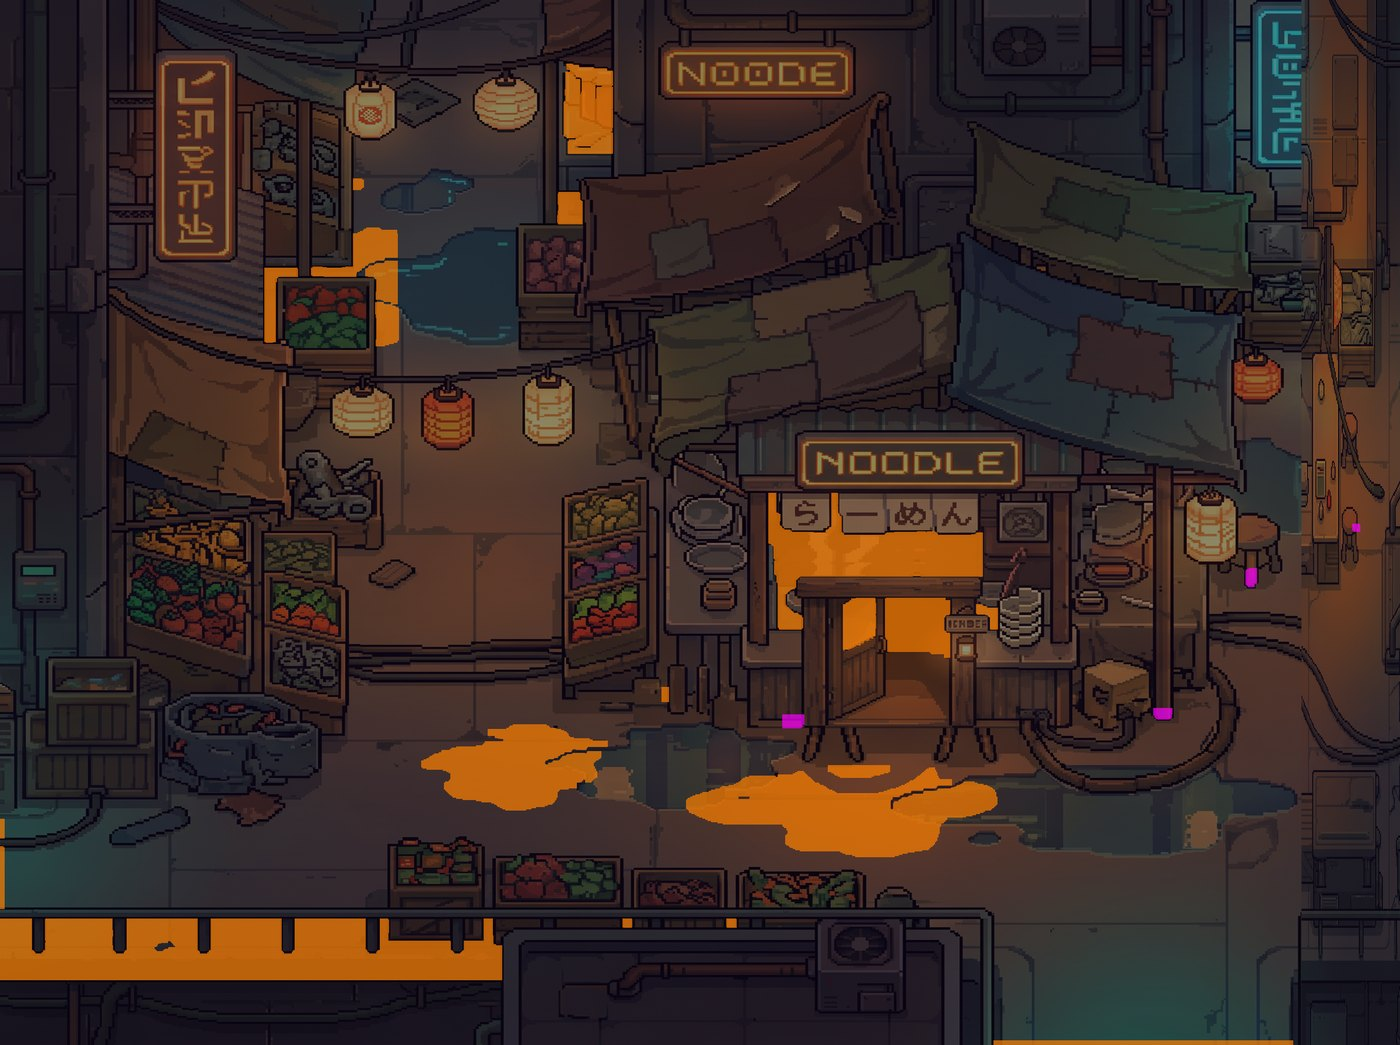
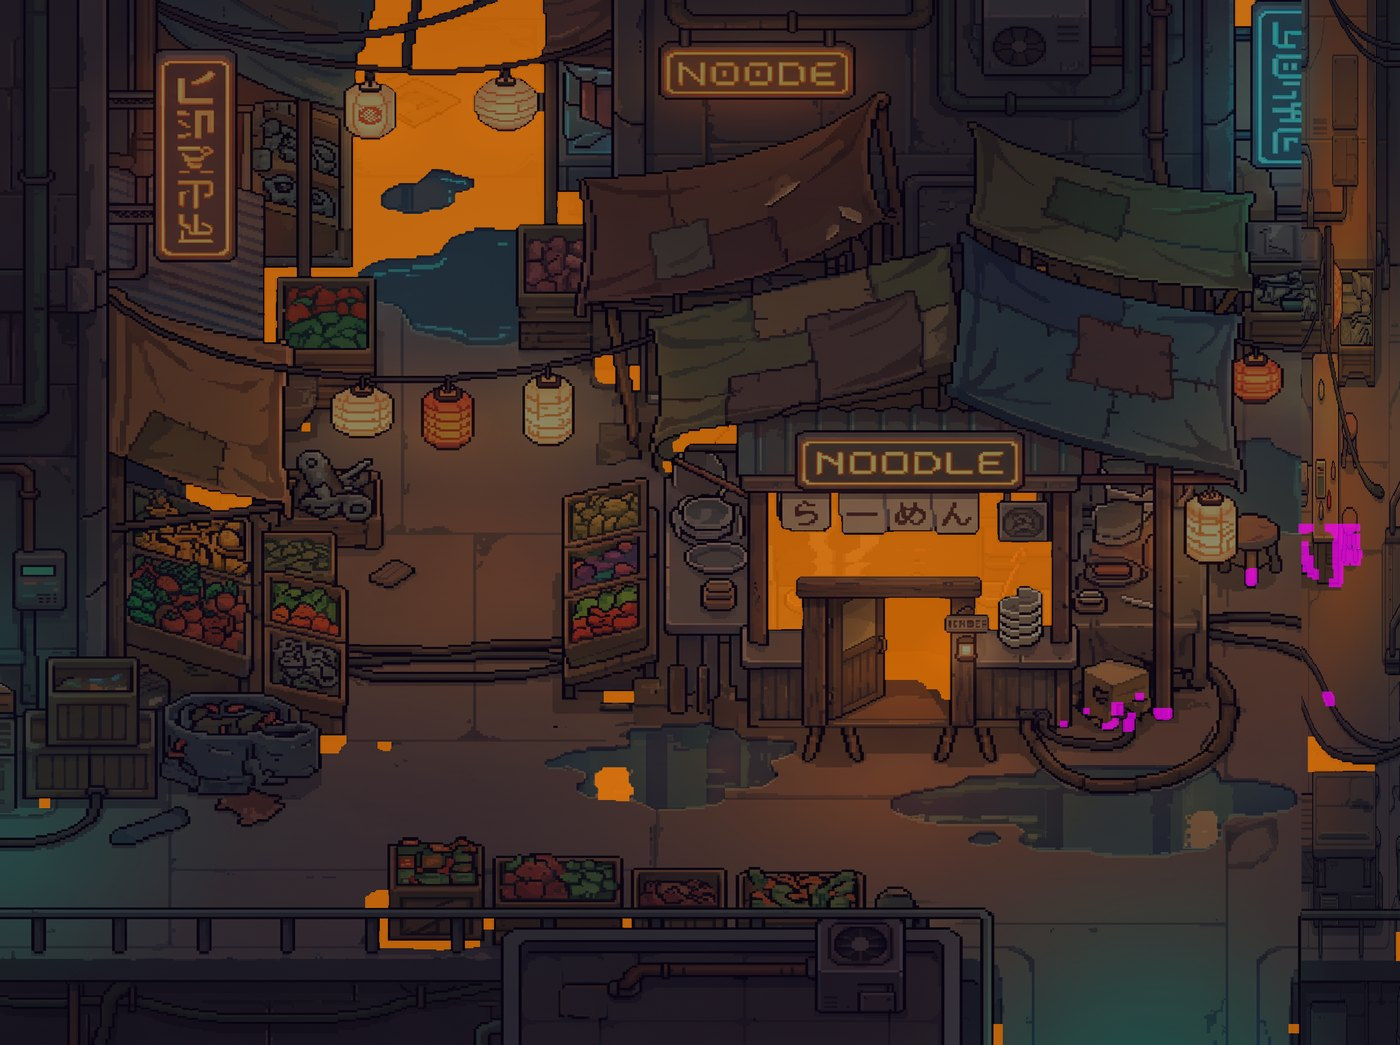
audit: closing defect trend — bazaar 14.7->4.9%, anchor 6.1->2.6%, plaza 13.5% conservative (fix queue)

diff --git a/tools/art-pipeline/STATUS.md b/tools/art-pipeline/STATUS.md
@@ -1719,3 +1719,13 @@ Model pinning skipped: Vertex exposes no dated alias for gemini-3-pro-image.
   no ghost; player correctly hidden under the herb bundles.
 - All 3 focus scenes now have tri-rater gold overhead layers live: bazaar
   (35 parts), anchor (7), plaza (32).
+
+## Run 39 (2026-07-29 05:55 UTC) — closing audit of the 12h window
+- verify_defects trend (VLM walkability judge vs shipped collision):
+  anchorroom 2.56% (was 6.06%), night-bazaar 4.90% (was 14.71% pre-magenta),
+  plaza-market-inside 13.54% missed-walk / 0.01% false-walk.
+- Read: the magenta-first pipeline cut bazaar defects 3x. Plaza collision is
+  CONSERVATIVE (nothing walk-through-walls; judge wants more floor open than
+  the battery-gated build allows) — top post-window item: plaza compose
+  retune to open judged-walkable shelf aisles, re-gated by the offline
+  battery (door->mouth x3 + flood).
